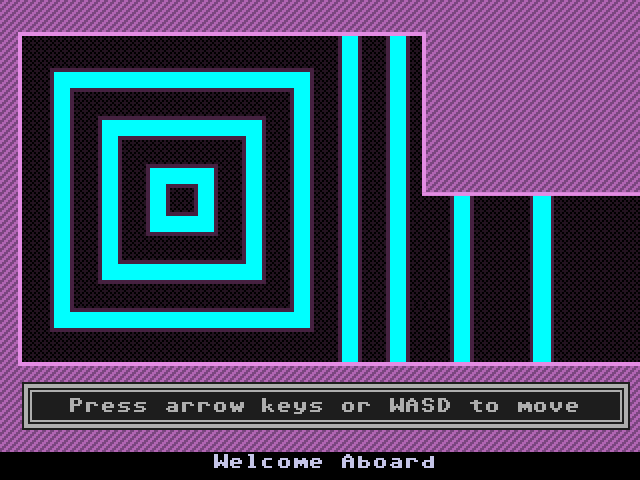
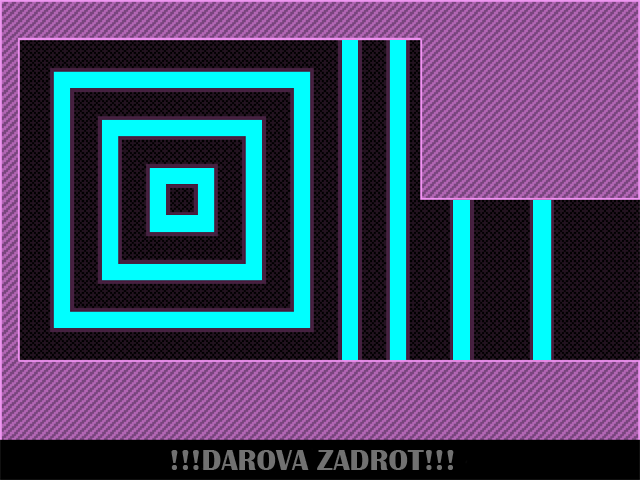
Level3 bug rebuilded. Many bugs- Cool level4+

diff --git a/vvvvvv2/main.c b/vvvvvv2/main.c
@@ -498,51 +498,51 @@ int main( int argc, char* args[] )
 
         //Clip range for the top left
         clipRightD[ 0 ].x = 0;
-        clipRightD[ 0 ].y = 44;
-        clipRightD[ 0 ].w = 24;
-        clipRightD[ 0 ].h = 44;
+        clipRightD[ 0 ].y = 40;
+        clipRightD[ 0 ].w = 20;
+        clipRightD[ 0 ].h = 40;
 
         //Clip range for the top right
-        clipRightD[ 1 ].x = 24;
-        clipRightD[ 1 ].y = 44;
-        clipRightD[ 1 ].w = 24;
-        clipRightD[ 1 ].h = 44;
+        clipRightD[ 1 ].x = 20;
+        clipRightD[ 1 ].y = 40;
+        clipRightD[ 1 ].w = 20;
+        clipRightD[ 1 ].h = 40;
 
         //Clip range for the top left
         clipRightU[ 0 ].x = 0;
         clipRightU[ 0 ].y = 0;
-        clipRightU[ 0 ].w = 24;
-        clipRightU[ 0 ].h = 44;
+        clipRightU[ 0 ].w = 20;
+        clipRightU[ 0 ].h = 40;
 
         //Clip range for the top right
-        clipRightU[ 1 ].x = 24;
+        clipRightU[ 1 ].x = 20;
         clipRightU[ 1 ].y = 0;
-        clipRightU[ 1 ].w = 24;
-        clipRightU[ 1 ].h = 44;
+        clipRightU[ 1 ].w = 20;
+        clipRightU[ 1 ].h = 40;
 
         //Clip range for the top left
-        clipLeftD[ 0 ].x = 72;
-        clipLeftD[ 0 ].y = 44;
-        clipLeftD[ 0 ].w = 24;
-        clipLeftD[ 0 ].h = 44;
+        clipLeftD[ 0 ].x = 60;
+        clipLeftD[ 0 ].y = 40;
+        clipLeftD[ 0 ].w = 20;
+        clipLeftD[ 0 ].h = 40;
 
         //Clip range for the top right
-        clipLeftD[ 1 ].x = 48;
-        clipLeftD[ 1 ].y = 44;
-        clipLeftD[ 1 ].w = 24;
-        clipLeftD[ 1 ].h = 44;
+        clipLeftD[ 1 ].x = 40;
+        clipLeftD[ 1 ].y = 40;
+        clipLeftD[ 1 ].w = 20;
+        clipLeftD[ 1 ].h = 40;
 
         //Clip range for the top left
-        clipLeftU[ 0 ].x = 72;
+        clipLeftU[ 0 ].x = 60;
         clipLeftU[ 0 ].y = 0;
-        clipLeftU[ 0 ].w = 24;
-        clipLeftU[ 0 ].h = 44;
+        clipLeftU[ 0 ].w = 20;
+        clipLeftU[ 0 ].h = 40;
 
         //Clip range for the top right
-        clipLeftU[ 1 ].x = 48;
+        clipLeftU[ 1 ].x = 40;
         clipLeftU[ 1 ].y = 0;
-        clipLeftU[ 1 ].w = 24;
-        clipLeftU[ 1 ].h = 44;
+        clipLeftU[ 1 ].w = 20;
+        clipLeftU[ 1 ].h = 40;
 
         //Render the text
         up = TTF_RenderText_Solid( font, "Up", textColor );
@@ -652,19 +652,19 @@ int main( int argc, char* args[] )
                 for (i=0;i<=23;i++){
                     for(j=0;j<=31;j++){
                         if (Gol1[j][i] == 2){
-                            apply_surface (z2+2, y2+2, death, screen, &clipdeath[0]);
+                            apply_surface (z2, y2, death, screen, &clipdeath[0]);
                             z2=z2+20;
                         }
                         else if (Gol1[j][i] == 3){
-                            apply_surface (z2+2, y2-2, death, screen, &clipdeath[1]);
+                            apply_surface (z2, y2, death, screen, &clipdeath[1]);
                             z2=z2+20;
                         }
                         else if (Gol1[j][i] == 4){
-                            apply_surface (z2+2, y2-4, death, screen, &clipdeath[2]);
+                            apply_surface (z2, y2, death, screen, &clipdeath[2]);
                             z2=z2+20;
                         }
                         else if (Gol1[j][i] == 5){
-                            apply_surface (z2+2, y2-4, death, screen, &clipdeath[3]);
+                            apply_surface (z2, y2, death, screen, &clipdeath[3]);
                             z2=z2+20;
                         }
                         else if (Gol1[j][i] == 9) {
@@ -729,7 +729,7 @@ int main( int argc, char* args[] )
                             {
                             Speed=1;
                             }
-                            if(Gol1[j][i+3]!=1){
+                            if(Gol1[j][i+2]!=1){
                                 Mix_PlayChannel( -1, jump, 0 );
                             }
                         }
@@ -768,8 +768,8 @@ int main( int argc, char* args[] )
                 //If right is pressed
                 if( keystates[ SDLK_d ] || keystates[ SDLK_RIGHT ] )
                 {
-                    if((Gol1[j][i+1]!=1
-                        &&(j1!=0||Gol1[j+1][i+1]!=1))&&die==0)
+                    if((Gol1[j][i+1]!=1&&Gol1[j][i]!=1
+                        &&(j1!=0||(Gol1[j+1][i+1]!=1&&Gol1[j+1][i]!=1)))&&die==0)
                             {
                     if(Speed==0)
                     Xor=Xor+4;
@@ -798,6 +798,7 @@ int main( int argc, char* args[] )
                         if(Gol1[j][i+2]==1||(j1!=0&&Gol1[j+1][i+2]==1))
                         Speed=0;
                     }else if(Speed==-1) {
+                        i=(Yor-5)/20;
                         if(Gol1[j][i]==1||(j1!=0&&Gol1[j+1][i]==1))
                         Speed=0;
                     }
@@ -821,22 +822,28 @@ int main( int argc, char* args[] )
                         }
 
                     Yor=Yor+5*Speed;
+                    /*if(Yor%10!=0&&Speed==0){
+                    Yor=Yor+5;
+                    }*/
+
 
 
                     if(Gol1[j][i]==8&&Speed==-1){
                             Speed=1;
                             velosityH=0;
+                            Mix_PlayChannel( -1, jump, 0 );
                     }
                     if(Gol1[j][i+2]==8&&Speed==1){
                             Speed=-1;
                             velosityH=1;
+                            Mix_PlayChannel( -1, jump, 0 );
                     }
 
                     if(Gol1[j][i]==6||Gol1[j][i+1]==6){
                             l=l+1;
                             if(Xor>=620)
                                 Xor=20;
-                            else Xor=610;
+                            else Xor=616;
                     }
                     if(Gol1[j][i]==7||Gol1[j][i+1]==7){
                             l=l-1;
